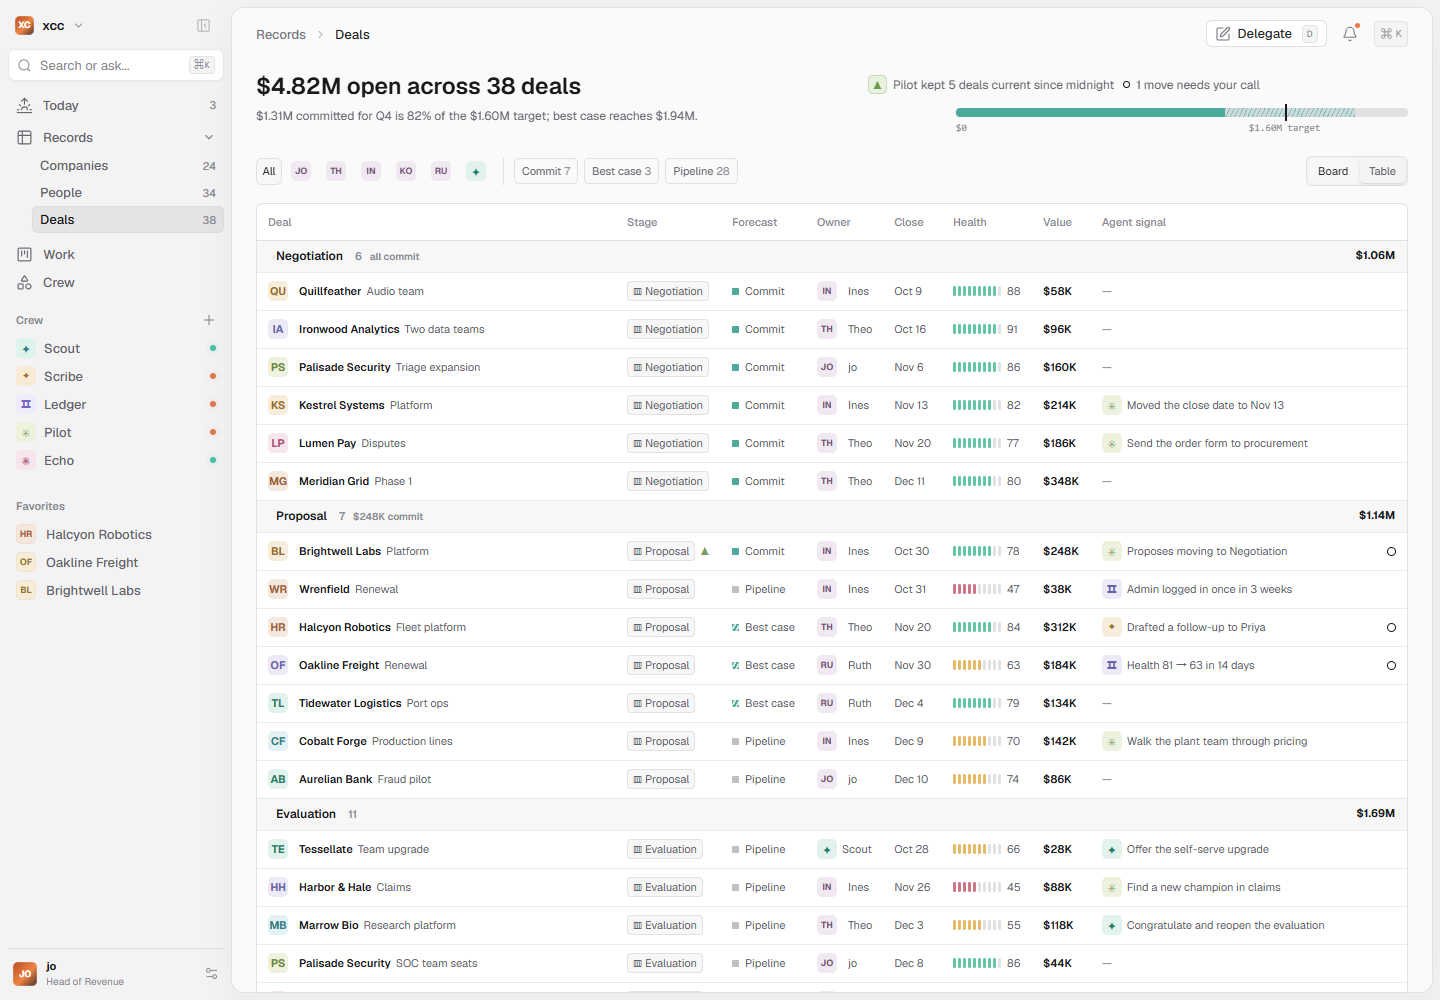
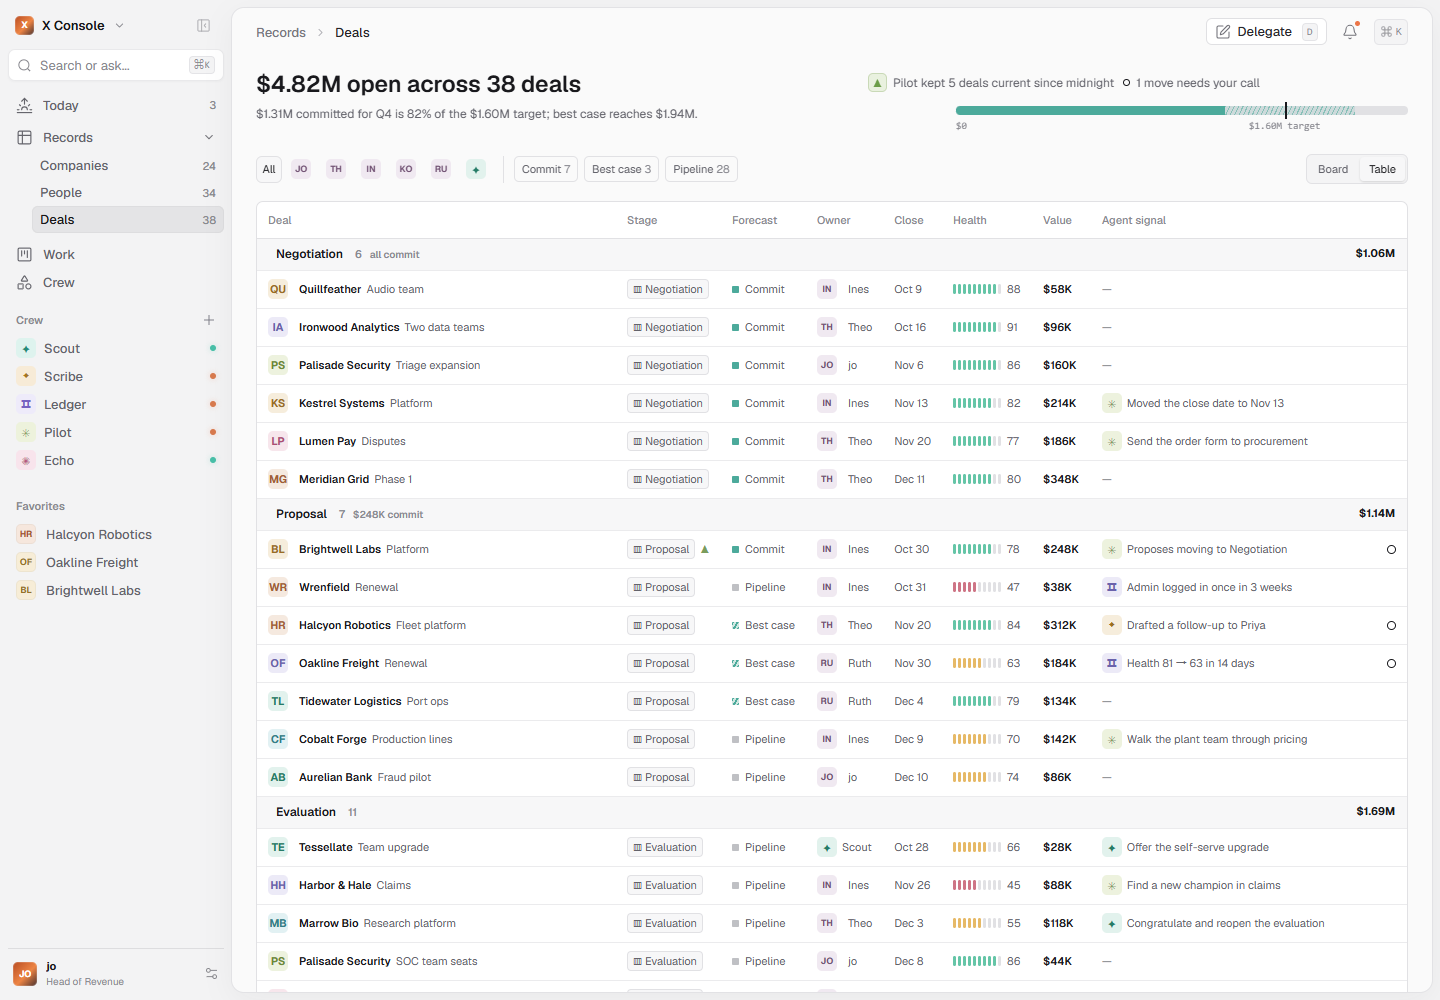
feat: rename dashboard to X Console

diff --git a/src/lib/i18n.ts b/src/lib/i18n.ts
@@ -92,10 +92,10 @@ export const zh: Record<string, string> = {
   "Open the draft": "打开草稿",
   "To Priya Raman": "收件人：Priya Raman",
   "Two pricing options before our 10:00": "10 点会议前的两种报价方案",
-  "Hi Priya — thanks for walking us through the fleet telemetry setup yesterday. Jun’s question about tracing handoffs between picking agents is exactly where xcc earns its keep.":
-    "Priya，你好。感谢你昨天介绍车队遥测系统。Jun 提到的拣货机器人之间如何追踪任务交接，正是 xcc 能发挥作用的地方。",
-  "Hi Priya — thanks for walking us through the fleet telemetry setup yesterday. Jun’s question about tracing handoffs between picking agents is exactly where xcc earns its keep. As promised, two options sized for 40 robots now and 120 by Q2. Both include decision replay and the on-prem collector you asked about.":
-    "Priya，你好。感谢你昨天介绍车队遥测系统。Jun 提到的拣货机器人之间如何追踪任务交接，正是 xcc 能发挥作用的地方。按约定，我们准备了两种方案，分别适用于目前的 40 台机器人和第二季度扩展至 120 台的需求。两种方案都包含决策回放及你提出的本地采集器。",
+  "Hi Priya — thanks for walking us through the fleet telemetry setup yesterday. Jun’s question about tracing handoffs between picking agents is exactly where X Console earns its keep.":
+    "Priya，你好。感谢你昨天介绍车队遥测系统。Jun 提到的拣货机器人之间如何追踪任务交接，正是 X Console 能发挥作用的地方。",
+  "Hi Priya — thanks for walking us through the fleet telemetry setup yesterday. Jun’s question about tracing handoffs between picking agents is exactly where X Console earns its keep. As promised, two options sized for 40 robots now and 120 by Q2. Both include decision replay and the on-prem collector you asked about.":
+    "Priya，你好。感谢你昨天介绍车队遥测系统。Jun 提到的拣货机器人之间如何追踪任务交接，正是 X Console 能发挥作用的地方。按约定，我们准备了两种方案，分别适用于目前的 40 台机器人和第二季度扩展至 120 台的需求。两种方案都包含决策回放及你提出的本地采集器。",
   Health: "健康度",
   "Seats in use": "活跃席位",
   "in 14d": "14 天内",

diff --git a/src/stores/preferences-store.ts b/src/stores/preferences-store.ts
@@ -9,6 +9,14 @@ function readPreference(key: string): string | null {
     return null;
   }
 }
+function readBrandPreference(name: string): string | null {
+  const key = `x-console-${name}`;
+  const current = readPreference(key);
+  if (current !== null) return current;
+  const previous = readPreference(`xcc-${name}`);
+  if (previous !== null) savePreference(key, previous);
+  return previous;
+}
 function savePreference(key: string, value: string) {
   try {
     localStorage.setItem(key, value);
@@ -19,7 +27,7 @@ function savePreference(key: string, value: string) {
 function readAgentModes(): Record<string, AgentMode> {
   try {
     const value: unknown = JSON.parse(
-      readPreference("xcc-agent-modes") || "{}",
+      readBrandPreference("agent-modes") || "{}",
     );
     if (!value || typeof value !== "object" || Array.isArray(value)) return {};
     return Object.fromEntries(
@@ -42,28 +50,28 @@ interface PreferencesState {
   setThemeMode: Setter<ThemeMode>;
   setAgentModes: Setter<Record<string, AgentMode>>;
 }
-const savedTheme = readPreference("xcc-theme");
+const savedTheme = readBrandPreference("theme");
 export const usePreferencesStore = create<PreferencesState>()((set) => ({
-  language: readPreference("xcc-language") === "en" ? "en" : "zh",
+  language: readBrandPreference("language") === "en" ? "en" : "zh",
   themeMode:
     savedTheme === "dark" || savedTheme === "light" ? savedTheme : "system",
   agentModes: readAgentModes(),
   setLanguage: (update) =>
     set((state) => {
       const language = resolveUpdate(update, state.language);
-      savePreference("xcc-language", language);
+      savePreference("x-console-language", language);
       return { language };
     }),
   setThemeMode: (update) =>
     set((state) => {
       const themeMode = resolveUpdate(update, state.themeMode);
-      savePreference("xcc-theme", themeMode);
+      savePreference("x-console-theme", themeMode);
       return { themeMode };
     }),
   setAgentModes: (update) =>
     set((state) => {
       const agentModes = resolveUpdate(update, state.agentModes);
-      savePreference("xcc-agent-modes", JSON.stringify(agentModes));
+      savePreference("x-console-agent-modes", JSON.stringify(agentModes));
       return { agentModes };
     }),
 }));

diff --git a/src/data/drafts.ts b/src/data/drafts.ts
@@ -1,4 +1,4 @@
 export const defaultDraft =
-  "Hi Priya — thanks for walking us through the fleet telemetry setup yesterday. Jun’s question about tracing handoffs between picking agents is exactly where xcc earns its keep.\n\nAs promised, two options sized for 40 robots now and 120 by Q2. Both include decision replay and the on-prem collector you asked about.\n\nHappy to go through them line by line at 10:00. Owen is welcome to join.\n\nTheo";
+  "Hi Priya — thanks for walking us through the fleet telemetry setup yesterday. Jun’s question about tracing handoffs between picking agents is exactly where X Console earns its keep.\n\nAs promised, two options sized for 40 robots now and 120 by Q2. Both include decision replay and the on-prem collector you asked about.\n\nHappy to go through them line by line at 10:00. Owen is welcome to join.\n\nTheo";
 export const defaultDraftZh =
-  "Priya，你好。感谢你昨天介绍车队遥测系统。Jun 提到的拣货机器人之间如何追踪任务交接，正是 xcc 能发挥作用的地方。\n\n按约定，我们准备了两种方案，分别适用于目前的 40 台机器人和第二季度扩展至 120 台的需求。两种方案都包含决策回放及你提出的本地采集器。\n\n我们可以在 10 点逐项讨论，也欢迎 Owen 加入。\n\nTheo";
+  "Priya，你好。感谢你昨天介绍车队遥测系统。Jun 提到的拣货机器人之间如何追踪任务交接，正是 X Console 能发挥作用的地方。\n\n按约定，我们准备了两种方案，分别适用于目前的 40 台机器人和第二季度扩展至 120 台的需求。两种方案都包含决策回放及你提出的本地采集器。\n\n我们可以在 10 点逐项讨论，也欢迎 Owen 加入。\n\nTheo";

diff --git a/src/stores/preferences-store.test.ts b/src/stores/preferences-store.test.ts
@@ -12,7 +12,7 @@ describe("preferences store", () => {
   });
   afterEach(() => vi.unstubAllGlobals());
 
-  it("restores xcc preferences and persists typed updates", async () => {
+  it("migrates old preferences and persists updates under X Console keys", async () => {
     storage.set("xcc-language", "en");
     storage.set("xcc-theme", "dark");
     storage.set("xcc-agent-modes", JSON.stringify({ Scout: "Ask first" }));
@@ -21,12 +21,17 @@ describe("preferences store", () => {
     expect(store.language).toBe("en");
     expect(store.themeMode).toBe("dark");
     expect(store.agentModes.Scout).toBe("Ask first");
+    expect(storage.get("x-console-language")).toBe("en");
+    expect(storage.get("x-console-theme")).toBe("dark");
+    expect(JSON.parse(storage.get("x-console-agent-modes")!)).toEqual({
+      Scout: "Ask first",
+    });
     store.setLanguage("zh");
     store.setThemeMode("light");
     store.setAgentModes((modes) => ({ ...modes, Echo: "Autopilot" }));
-    expect(storage.get("xcc-language")).toBe("zh");
-    expect(storage.get("xcc-theme")).toBe("light");
-    expect(JSON.parse(storage.get("xcc-agent-modes")!)).toEqual({
+    expect(storage.get("x-console-language")).toBe("zh");
+    expect(storage.get("x-console-theme")).toBe("light");
+    expect(JSON.parse(storage.get("x-console-agent-modes")!)).toEqual({
       Scout: "Ask first",
       Echo: "Autopilot",
     });
@@ -34,7 +39,7 @@ describe("preferences store", () => {
 
   it("rejects malformed or invalid saved agent modes", async () => {
     storage.set(
-      "xcc-agent-modes",
+      "x-console-agent-modes",
       JSON.stringify({ Scout: "invalid", Echo: "Autopilot", Pilot: 42 }),
     );
     const { usePreferencesStore } = await import("./preferences-store");

diff --git a/index.html b/index.html
@@ -5,13 +5,13 @@
     <meta name="viewport" content="width=device-width, initial-scale=1.0" />
     <meta name="theme-color" content="#0a0a0b" />
     <link rel="icon" type="image/svg+xml" href="/favicon.svg" />
-    <title>今日 · xcc</title>
+    <title>今日 · X Console</title>
     <script>
       let savedTheme = "system";
       let savedLanguage = "zh";
       try {
-        savedTheme = localStorage.getItem("xcc-theme") || "system";
-        savedLanguage = localStorage.getItem("xcc-language") || "zh";
+        savedTheme = localStorage.getItem("x-console-theme") || localStorage.getItem("xcc-theme") || "system";
+        savedLanguage = localStorage.getItem("x-console-language") || localStorage.getItem("xcc-language") || "zh";
       } catch {
         // Use default preferences if browser storage is unavailable.
       }
@@ -23,7 +23,7 @@
       document.documentElement.style.colorScheme = dark ? "dark" : "light";
       if (savedLanguage === "en") {
         document.documentElement.lang = "en";
-        document.title = "Today · xcc";
+        document.title = "Today · X Console";
       }
     </script>
     <link rel="preconnect" href="https://fonts.googleapis.com" />

diff --git a/src/components/dialogs/DraftReviewDialog.tsx b/src/components/dialogs/DraftReviewDialog.tsx
@@ -109,7 +109,7 @@ export function DraftReviewDialog({
           <div>
             <dt>{L("From", "发件人")}</dt>
             <dd>
-              Theo Park <small>&lt;theo@xcc.ai&gt;</small>
+              Theo Park <small>&lt;theo@xcc.im&gt;</small>
             </dd>
           </div>
           <div>
@@ -174,7 +174,7 @@ export function DraftReviewDialog({
                   Priya，你好。感谢你昨天<del>抽出时间</del>
                   <ins>介绍车队遥测系统</ins>。
                   <ins>
-                    Jun 提到的拣货机器人之间如何追踪任务交接，正是 xcc
+                    Jun 提到的拣货机器人之间如何追踪任务交接，正是 X Console
                     能发挥作用的地方。
                   </ins>
                 </p>
@@ -200,7 +200,7 @@ export function DraftReviewDialog({
                   yesterday.{" "}
                   <ins>
                     Jun’s question about tracing handoffs between picking agents
-                    is exactly where xcc earns its keep.
+                    is exactly where X Console earns its keep.
                   </ins>
                 </p>
                 <p>

diff --git a/src/features/today/components/DecisionPreview.tsx b/src/features/today/components/DecisionPreview.tsx
@@ -27,7 +27,7 @@ export default function DecisionPreview({
         <strong>{t("Two pricing options before our 10:00")}</strong>
         <p>
           {t(
-            "Hi Priya — thanks for walking us through the fleet telemetry setup yesterday. Jun’s question about tracing handoffs between picking agents is exactly where xcc earns its keep.",
+            "Hi Priya — thanks for walking us through the fleet telemetry setup yesterday. Jun’s question about tracing handoffs between picking agents is exactly where X Console earns its keep.",
           )}
         </p>
       </button>

diff --git a/src/features/companies/company-config.ts b/src/features/companies/company-config.ts
@@ -60,7 +60,7 @@ export const timelineTitlesZh: Record<string, string> = {
   "Theo Park called · Technical discovery with Priya · 32 min":
     "Theo Park 与 Priya 进行了技术需求电话 · 32 分钟",
   "Pilot moved to Proposal": "Pilot 将阶段推进至方案",
-  "Theo Park sent Proposal: xcc for the Halcyon fleet":
+  "Theo Park sent Proposal: X Console for the Halcyon fleet":
     "Theo Park 发送了 Halcyon 车队方案",
   "Theo Park met · Evaluation workshop · 60 min":
     "Theo Park 参加了评估研讨会 · 60 分钟",

diff --git a/src/components/dialogs/DelegateDialog.tsx b/src/components/dialogs/DelegateDialog.tsx
@@ -212,7 +212,7 @@ export function DelegateDialog({
               <small>
                 {selectedAgent?.[1] === "Suggests"
                   ? L(
-                      `${assignee} only suggests. Nothing leaves xcc until you act.`,
+                      `${assignee} only suggests. Nothing leaves X Console until you act.`,
                       `${assignee} 只会提出建议，未经你确认不会发送。`,
                     )
                   : L(

diff --git a/src/features/work/components/WorkList.tsx b/src/features/work/components/WorkList.tsx
@@ -138,7 +138,7 @@ export default function WorkList({
                             onClick={(event) => {
                               event.stopPropagation();
                               navigate(
-                                item.company === "xcc" ? "Work" : item.company,
+                                item.company === "X Console" ? "Work" : item.company,
                               );
                             }}
                           >

diff --git a/src/features/work/WorkPage.tsx b/src/features/work/WorkPage.tsx
@@ -71,7 +71,7 @@ export default function WorkPage({
     title: typeof task === "string" ? task : task.title,
     titleZh: typeof task === "string" ? task : task.title,
     assignee: typeof task === "string" ? "Scout" : task.assignee,
-    company: typeof task === "string" ? "xcc" : task.company,
+    company: typeof task === "string" ? "X Console" : task.company,
     status: "Queued",
     type: "Task",
     progress: 0,

diff --git a/src/features/work/components/WorkCard.tsx b/src/features/work/components/WorkCard.tsx
@@ -53,7 +53,7 @@ export default function WorkCard({
       <h3>{L(item.title, item.titleZh || item.title)}</h3>
       <button
         className="ws-record-link"
-        onClick={() => navigate(item.company === "xcc" ? "Work" : item.company)}
+        onClick={() => navigate(item.company === "X Console" ? "Work" : item.company)}
       >
         <CompanyIcon company={item.company} />
         {item.company}
